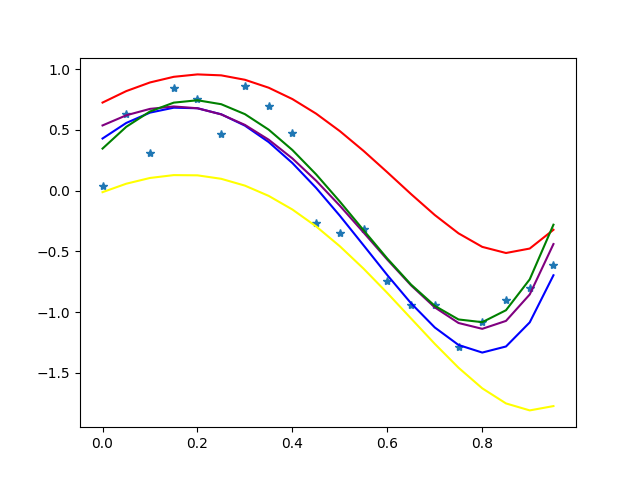
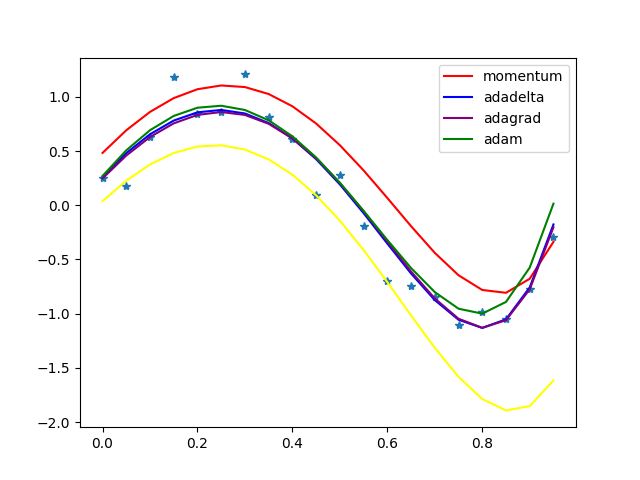
leyenda en graficos

diff --git a/main.py b/main.py
@@ -193,8 +193,9 @@ def tester2(x_ds,y_ds):
       for j in [None,"momentum","adadelta","adagrad","adam"]:
         sine_function = PolynomialFunct(7, 0.7, 1, 0.9)
         prediction = model_exec(error, sine_function, x_ds, y_ds, 10000, k, j)
-        plt.plot(x_ds,prediction, color=color[j])
+        plt.plot(x_ds,prediction, color=color[j],label=j)
       name = "test2/" + i + "_" + str(k)
+      plt.legend()
       plt.savefig(name)
       plt.clf()
 
@@ -204,7 +205,7 @@ if __name__ == "__main__":
   x_ds = np.arange(0,1,0.05)
   real_sine = np.array([ np.sin(2*i*np.pi) for i in x_ds])
   y_ds = np.array([ np.sin(2*i*np.pi) + np.random.normal(0, 0.2) for i in x_ds])
-  tester(x_ds,y_ds)
+  #tester(x_ds,y_ds)
   tester2(x_ds,y_ds)
   
   #sine_function = PolynomialFunct(7, 0.7, 1, 0.9)
